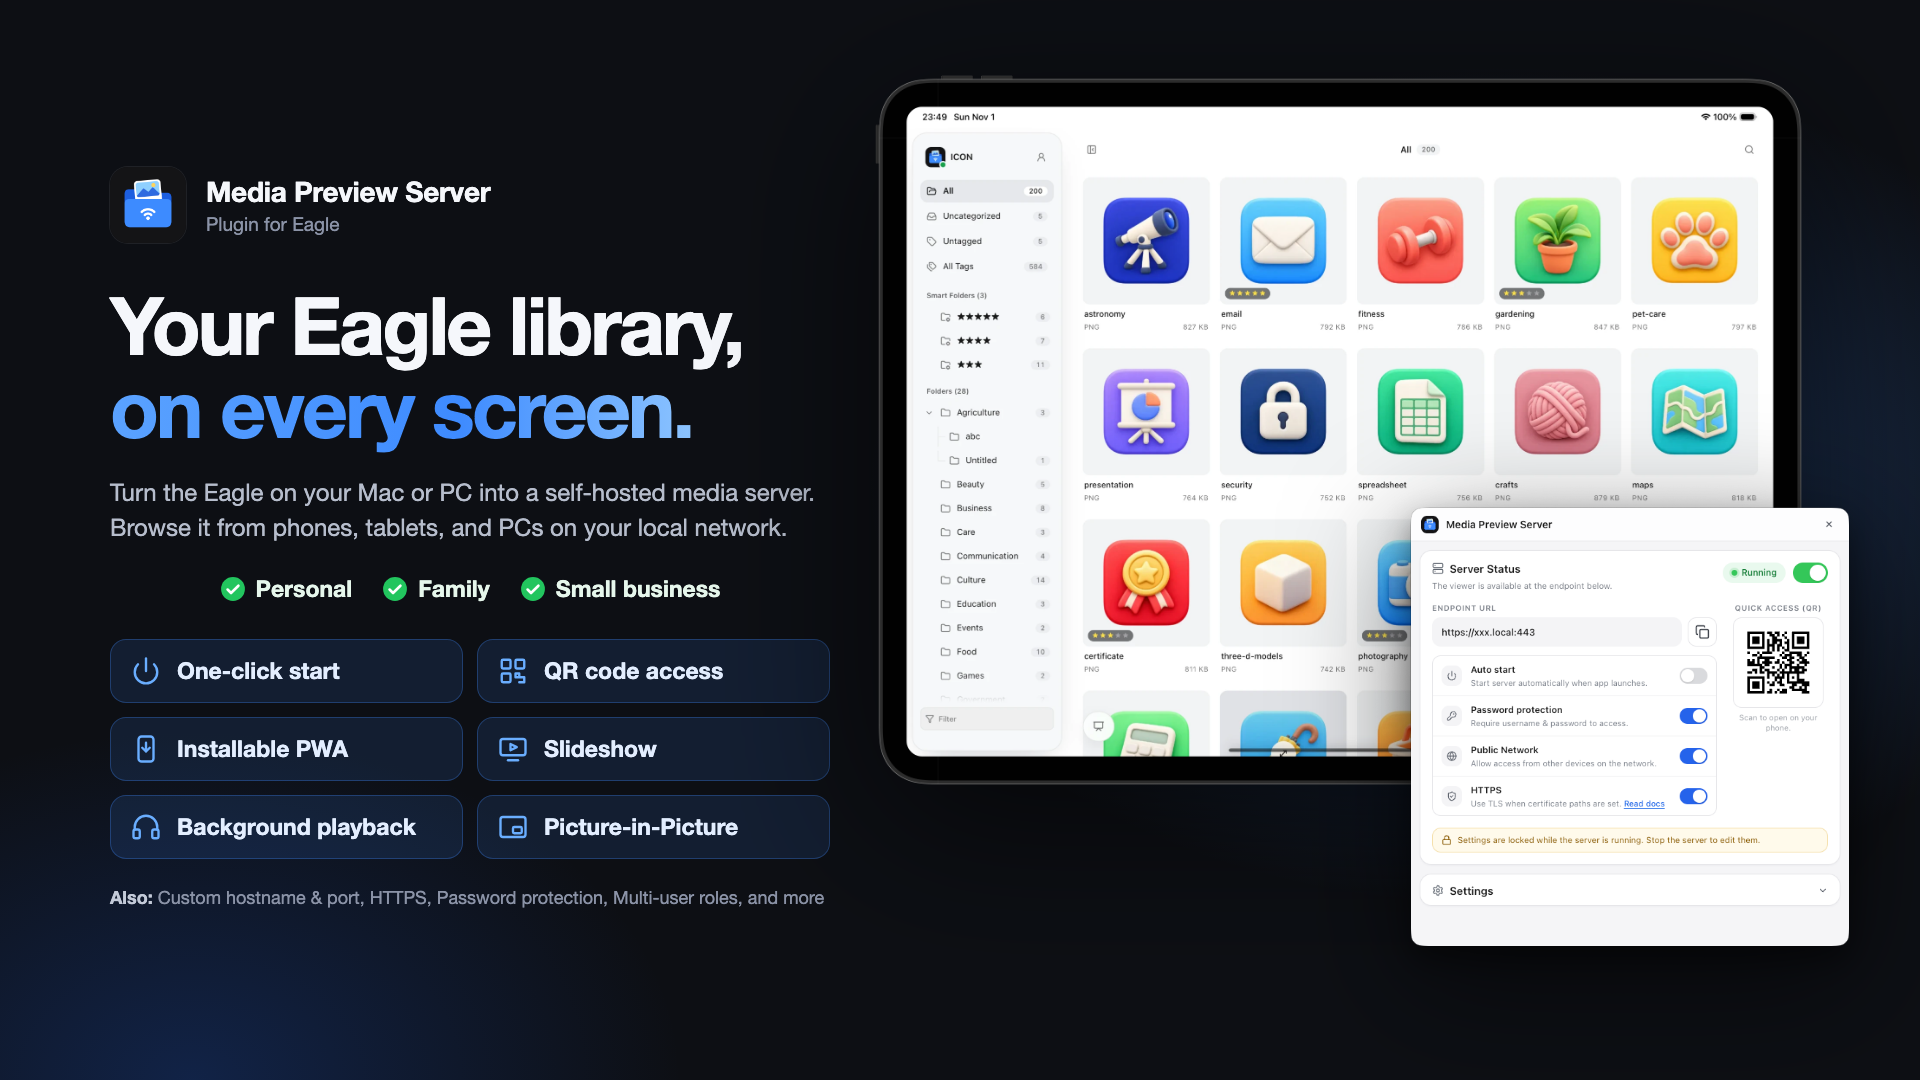
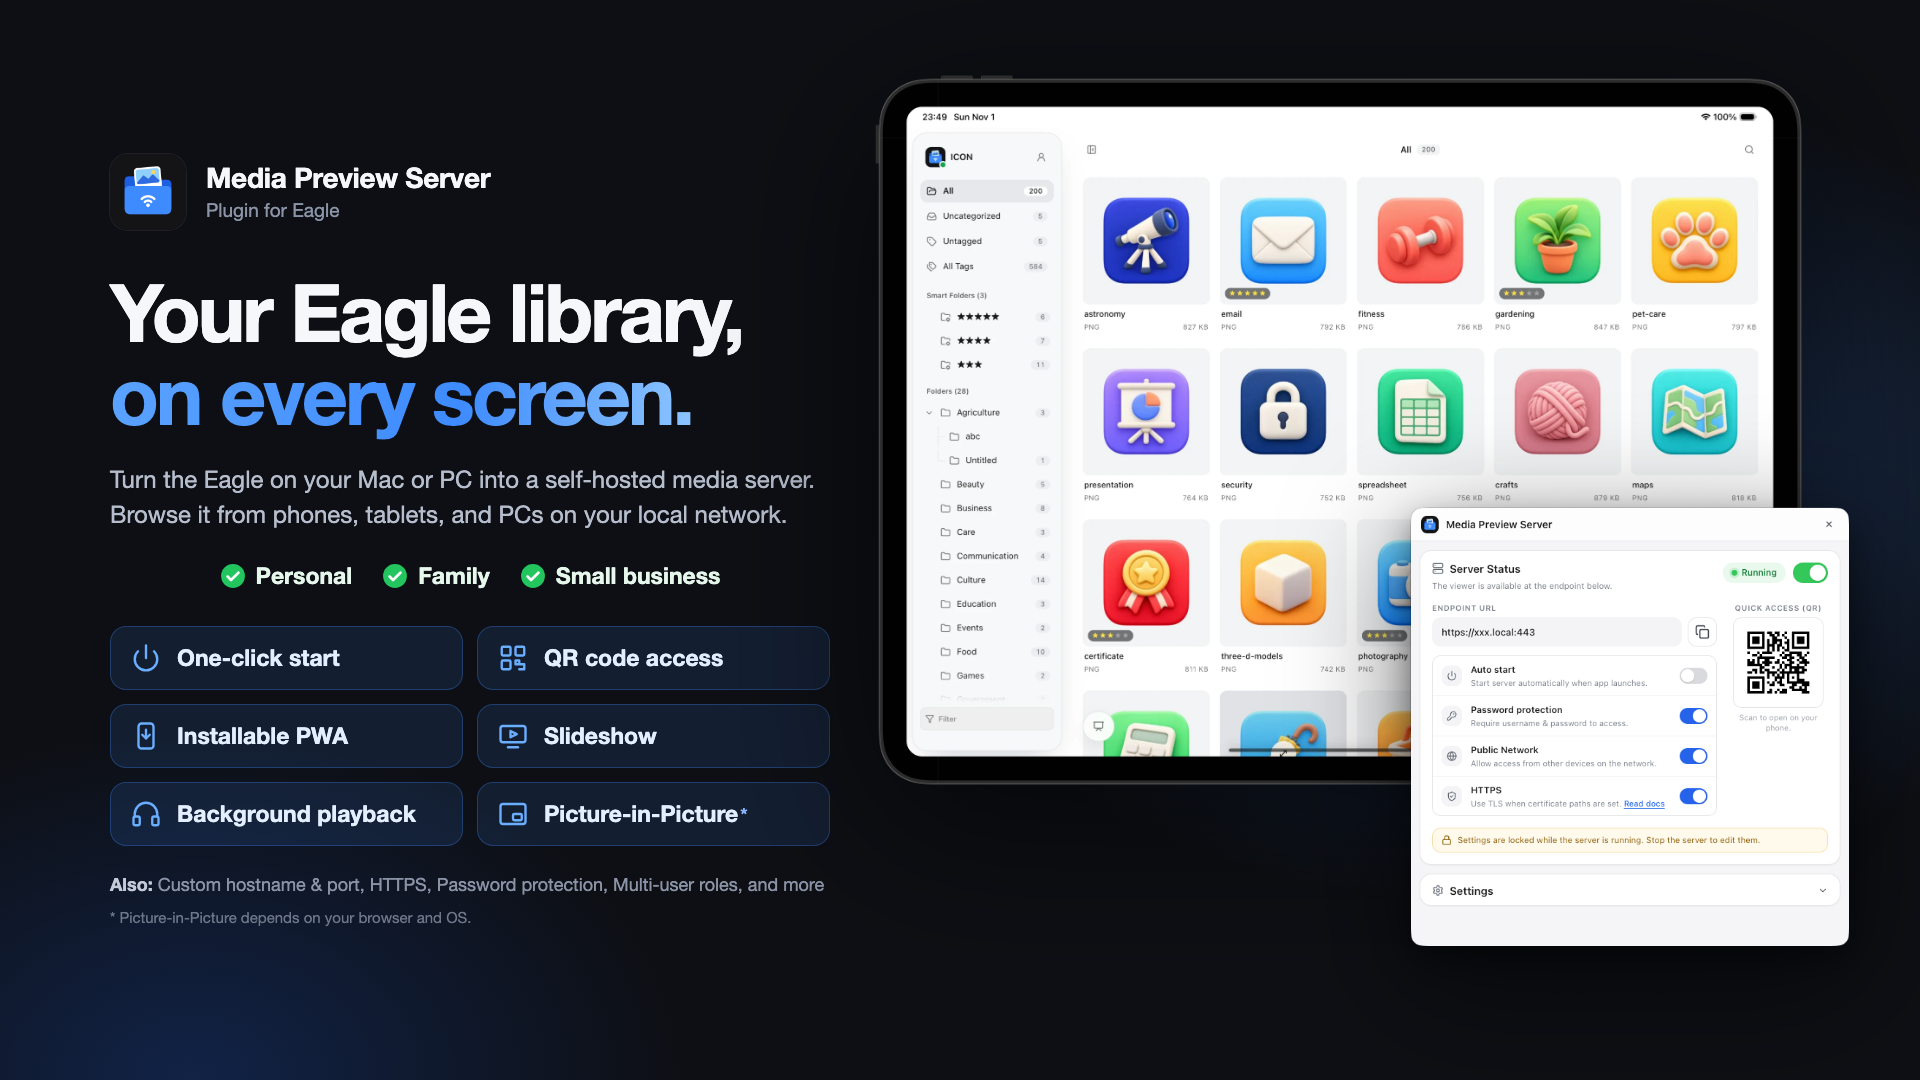
feat: update cover image and enhance feature descriptions in promo HTML

Changed region(s): [[0.0625, 0.2444, 0.4375, 0.8556], [0.0625, 0.1528, 0.25, 0.2139]]

diff --git a/docs/promo/cover_1.html b/docs/promo/cover_1.html
@@ -33,6 +33,8 @@
   .also { margin-top: 24px; font-size: 18px; line-height: 1.6; color: #8b93a7; white-space: nowrap; }
   .also span { white-space: nowrap; }
   .also b { color: #c3cad8; font-weight: 600; }
+  .feat sup { font-size: 18px; color: #8cb8ff; margin-left: -14px; align-self: flex-start; margin-top: 4px; }
+  .note { margin-top: 10px; font-size: 15px; color: #6f778a; }
   .ipad { position: absolute; right: 110px; top: 70px; width: 940px; filter: drop-shadow(0 40px 80px rgba(0,0,0,0.6)); }
   .panel { position: absolute; right: 30px; top: 480px; width: 520px; filter: drop-shadow(0 30px 60px rgba(0,0,0,0.55)); }
 </style>
@@ -59,9 +61,10 @@
       <div class="feat"><svg viewBox="0 0 24 24"><rect x="6" y="2" width="12" height="20" rx="2.5"/><path d="M12 7v7M9 11l3 3 3-3"/></svg>Installable PWA</div>
       <div class="feat"><svg viewBox="0 0 24 24"><rect x="2" y="4" width="20" height="13" rx="2"/><path d="M10 8l5 2.5-5 2.5z"/><path d="M8 21h8"/></svg>Slideshow</div>
       <div class="feat"><svg viewBox="0 0 24 24"><path d="M3 14v-2a9 9 0 0 1 18 0v2"/><rect x="2" y="14" width="5" height="7" rx="1.5"/><rect x="17" y="14" width="5" height="7" rx="1.5"/></svg>Background playback</div>
-      <div class="feat"><svg viewBox="0 0 24 24"><rect x="2" y="4" width="20" height="16" rx="2"/><rect x="12" y="12" width="7" height="5" rx="1"/></svg>Picture-in-Picture</div>
+      <div class="feat"><svg viewBox="0 0 24 24"><rect x="2" y="4" width="20" height="16" rx="2"/><rect x="12" y="12" width="7" height="5" rx="1"/></svg>Picture-in-Picture<sup>*</sup></div>
     </div>
     <p class="also"><b>Also:</b> Custom hostname &amp; port, HTTPS, Password protection, Multi-user roles, and more</p>
+    <p class="note">* Picture-in-Picture depends on your browser and OS.</p>
   </div>
   <img class="ipad" src="../screenshot.png" />
   <img class="panel" src="server_panel_compact.png" />
